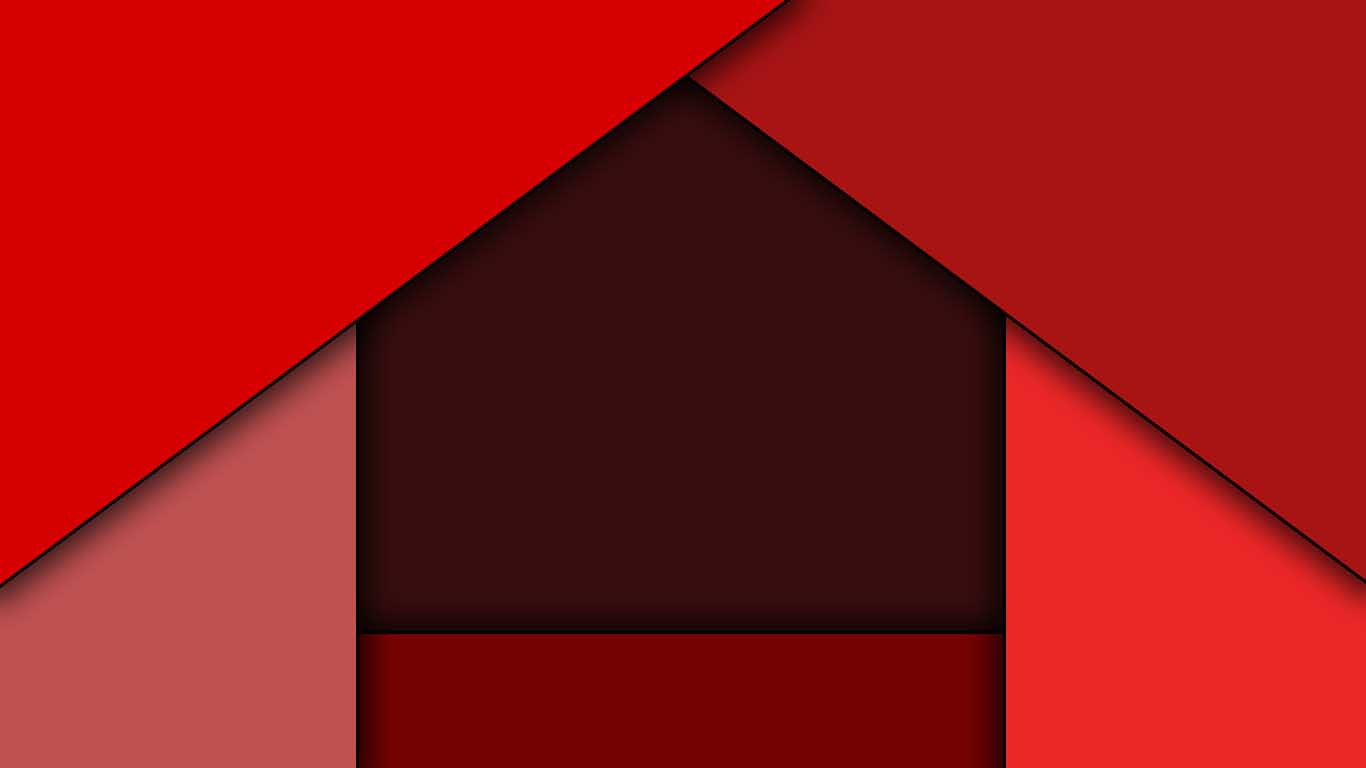
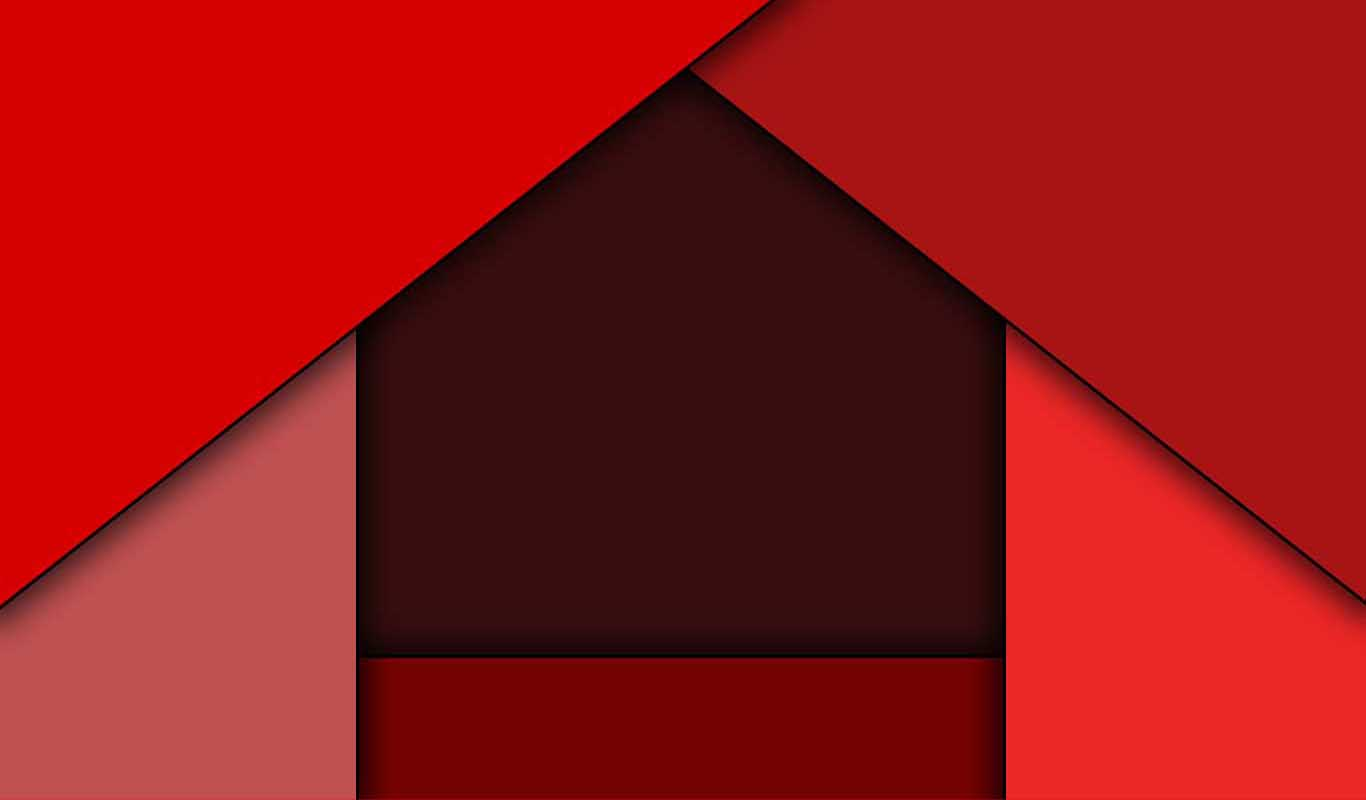
fondo responsive
se corrigio el fondo para celulares

diff --git a/css/estilos.css b/css/estilos.css
@@ -50,6 +50,9 @@ body{
 }
 
 @media (max-width:560px){
+  .pagina2{
+    background-image: url(../imagenes/fondos.jpg);
+  }
   .titulo{
     font-size: 30px;
     margin-top: -5px;
